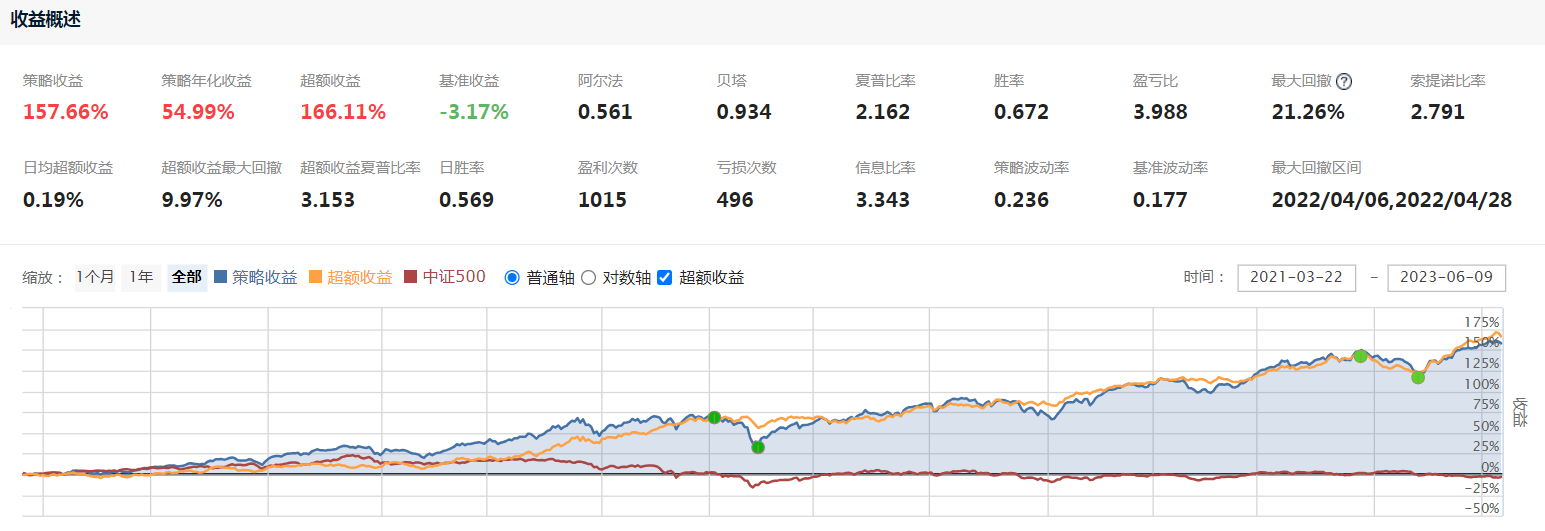
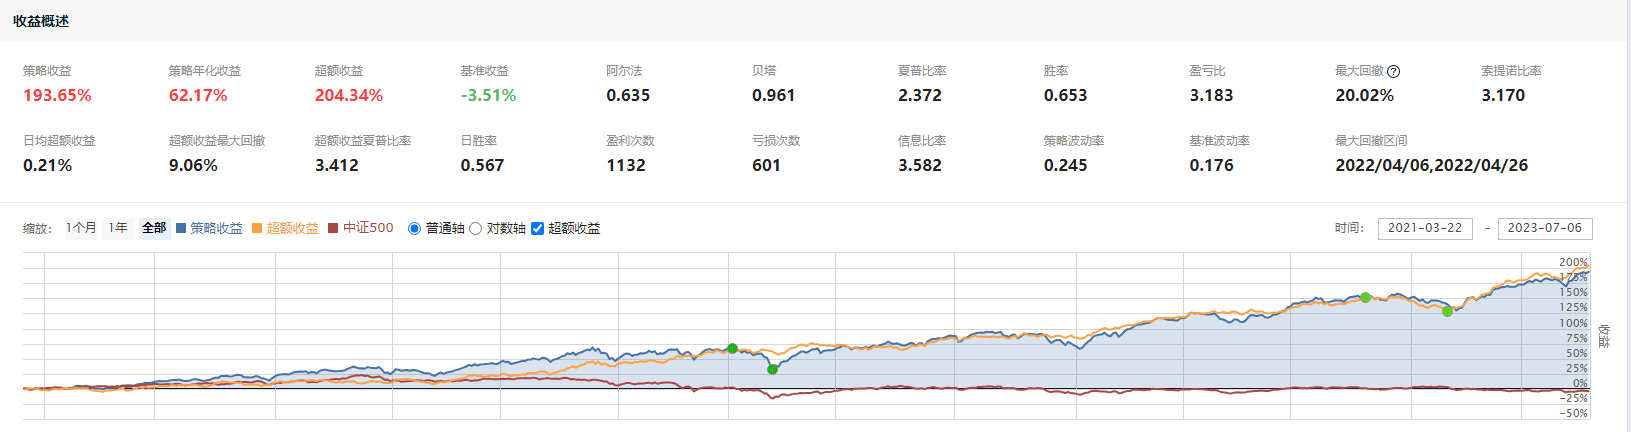
update净值

diff --git a/mynote/investment.md b/mynote/investment.md
@@ -6,10 +6,11 @@
   - 想法验证：可以充分利用历史数据回测自己的想法，你有个因子/指标/特征/公式，觉得很屌就去回测下试试，是否可行一试便知。
   - 计算速度：可以方便使用各种优化算法去优化自己的模型，肉身选股一只一只看要看很久，机器生成持仓最多十几秒。
   - 个人成长：量化对知识需求比较多，数学、统计、编程、机器学习，就算没搞好，下限也就是买入持有benchmark；而且一身竞争力。
-  - 归因分析：可以快速生成自己持仓的行业暴露、市值偏好等，方便与基准进行对比，找出自己优缺点。
+  - 归因分析：可以快速生成自己持仓的行业暴露、市值偏好等，方便与基准进行对比，找出自己优缺点。  
   
+(2023-07-07 update) 策略又新高了=_=，自己账户净利润也新高了，，而且又发现一个该策略上特别好用的因子。    
 (2023-06-11 update) 最近一个月策略有点牛逼。。。  
-策略战绩更新：（2021-03-22至2023-05-06），交易胜率0.657，夏普比率1.688，对中证500超额收益115.64%  
+(2021-03-22至2023-05-06)，交易胜率0.657，夏普比率1.688，对中证500超额收益115.64%  
 
 <div align=center style="width:80%">
 <img src="../imgs/strategy.png" />
